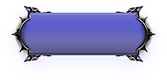
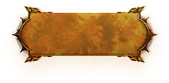
Colors changing for back ground

diff --git a/DragonSoulWeb/templates/custom/css/style.css b/DragonSoulWeb/templates/custom/css/style.css
@@ -1371,12 +1371,23 @@ h3 {
   filter: brightness(1.3);
 }
 
-.character {
+/*.character {
   position: relative;
   width: 100%;
   max-width: 950px;
   height: 640px;
   background: linear-gradient(rgba(47, 20, 30, 0.95), rgba(18, 19, 39, 0.95));
+  flex-direction: column;
+  justify-content: flex-start;
+}
+*/
+
+.character {
+  position: relative;
+  width: 100%;
+  max-width: 950px;
+  height: 640px;
+  background: linear-gradient(rgba(150, 50, 0, 0.95), rgba(100, 30, 0, 0.85), rgba(60, 60, 60, 0.9));
   flex-direction: column;
   justify-content: flex-start;
 }
@@ -1569,7 +1580,8 @@ h3 {
   position: relative;
   width: 100%;
   max-width: 950px;
-  background: linear-gradient(rgba(47, 20, 30, 0.95), rgba(18, 19, 39, 0.95));
+  /*background: linear-gradient(rgba(47, 20, 30, 0.95), rgba(18, 19, 39, 0.95));*/
+  background: linear-gradient(rgba(150, 50, 0, 0.95), rgba(100, 30, 0, 0.85), rgba(60, 60, 60, 0.9));
   flex-direction: column;
   justify-content: flex-start;
 }
@@ -1866,7 +1878,8 @@ h3 {
   max-width: 950px;
   height: 90vh;
   max-height: 700px;
-  background: linear-gradient(rgba(47, 20, 30, 0.95), rgba(18, 19, 39, 0.95));
+  /*background: linear-gradient(rgba(47, 20, 30, 0.95), rgba(18, 19, 39, 0.95));*/
+  background: linear-gradient(rgba(150, 50, 0, 0.95), rgba(100, 30, 0, 0.85), rgba(60, 60, 60, 0.9));
   flex-direction: column;
   justify-content: flex-start;
   margin-top: calc(50vh - 350px);
@@ -2506,7 +2519,8 @@ li {
 .last-news-small {
   position: relative;
   width: 100%;
-  background: linear-gradient(rgba(47, 20, 30, 0.95), rgba(18, 19, 39, 0.95));
+  /*background: linear-gradient(rgba(47, 20, 30, 0.95), rgba(18, 19, 39, 0.95));*/
+  background: linear-gradient(rgba(150, 50, 0, 0.95), rgba(100, 30, 0, 0.85), rgba(60, 60, 60, 0.9));
   flex-direction: column;
   justify-content: flex-start;
 }
@@ -2524,7 +2538,8 @@ li {
 .last-news-left-small {
   position: relative;
   width: 100%;
-  background: linear-gradient(rgba(47, 20, 30, 0.95), rgba(18, 19, 39, 0.95));
+  /*background: linear-gradient(rgba(47, 20, 30, 0.95), rgba(18, 19, 39, 0.95));*/
+  background: linear-gradient(rgba(150, 50, 0, 0.95), rgba(100, 30, 0, 0.85), rgba(60, 60, 60, 0.9));
   flex-direction: column;
   justify-content: flex-start;
 }

diff --git a/DragonSoulWeb/index.html b/DragonSoulWeb/index.html
@@ -94,7 +94,7 @@
 							<table class="table table-condensed table-hover table-striped table-bordered" style="width: 80%; text-align: center; margin: 0 auto;">
 								<tr>
 									<td style="width:50%; text-align: left;">Versão</td>
-									<td style="width:50%; text-align: right;">1.5.5@1.5.1</td>
+									<td style="width:50%; text-align: right;">1.5.5</td>
 								</tr>
 								<tr>
 									<td style="width:50%; text-align: left;">Experiência</td>
@@ -223,7 +223,7 @@ Contamos com todos vocês, venham escrever a história de vocês em nosso servid
 				<div>
 					<h3>Drop's de Baús</h3>
 					<img src="templates/custom/img/drop-list-icon.png" alt="">
-					<p>Clique para saber os detalhes dos baús existentes no servidor e as porcentagens dos itens.</p>
+					<p>detalhes dos baús existentes no servidor e as porcentagens dos itens.</p>
 					<a class="more-btn" href="baus.html">VISUALIZAR</a>
 				</div>
 			</div>
